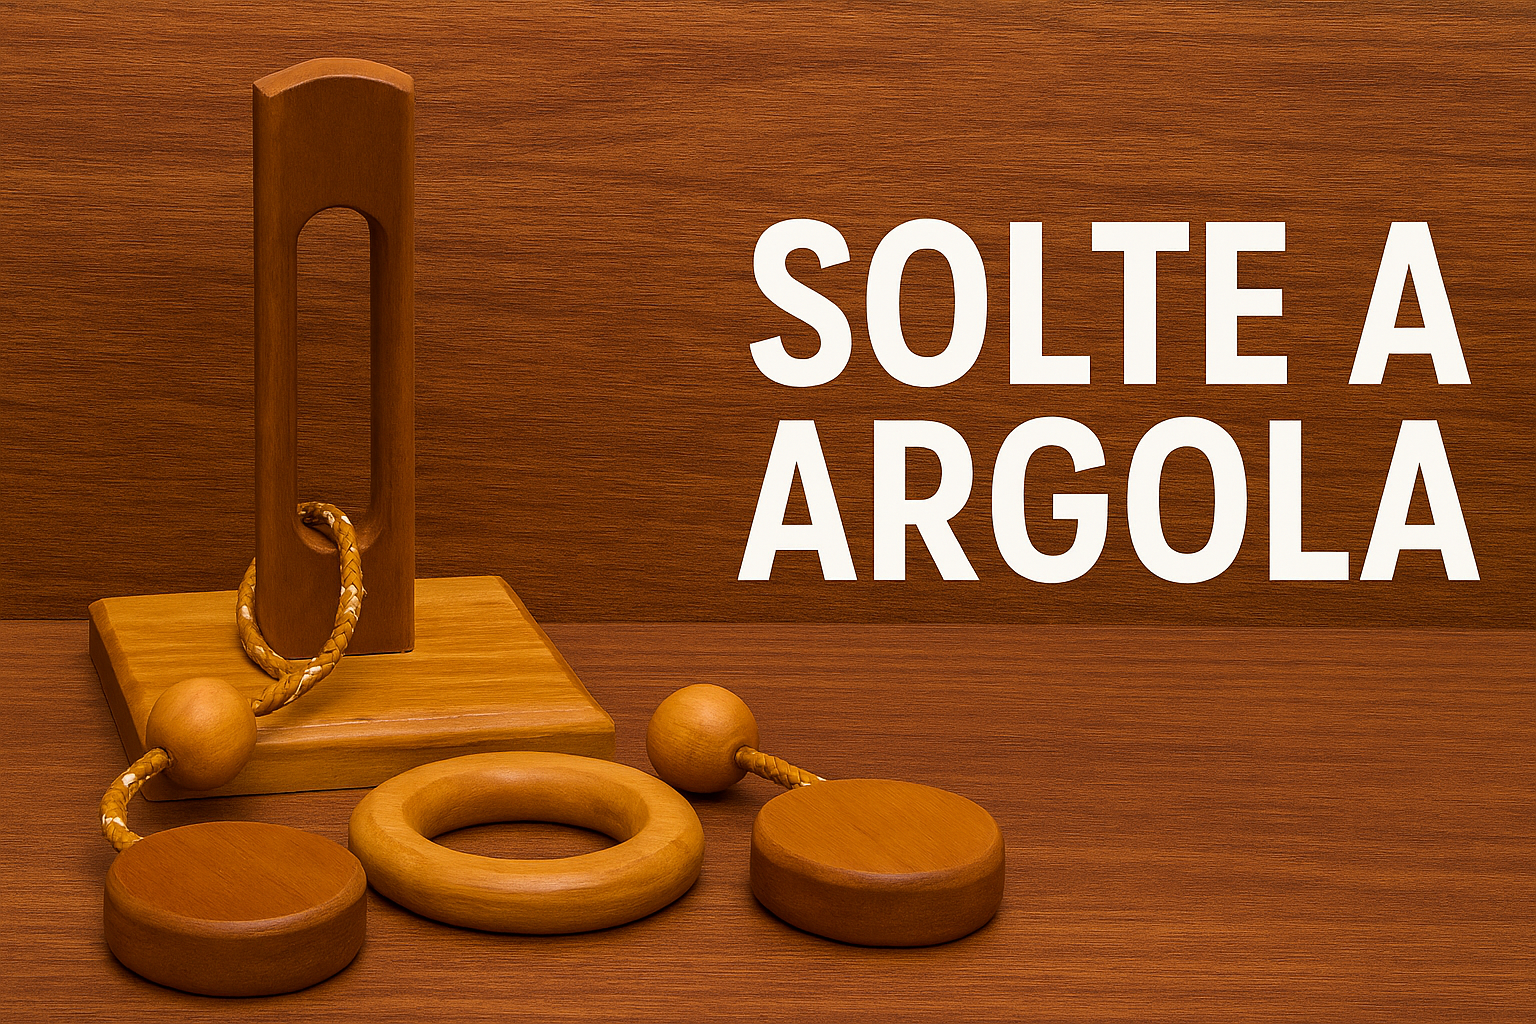
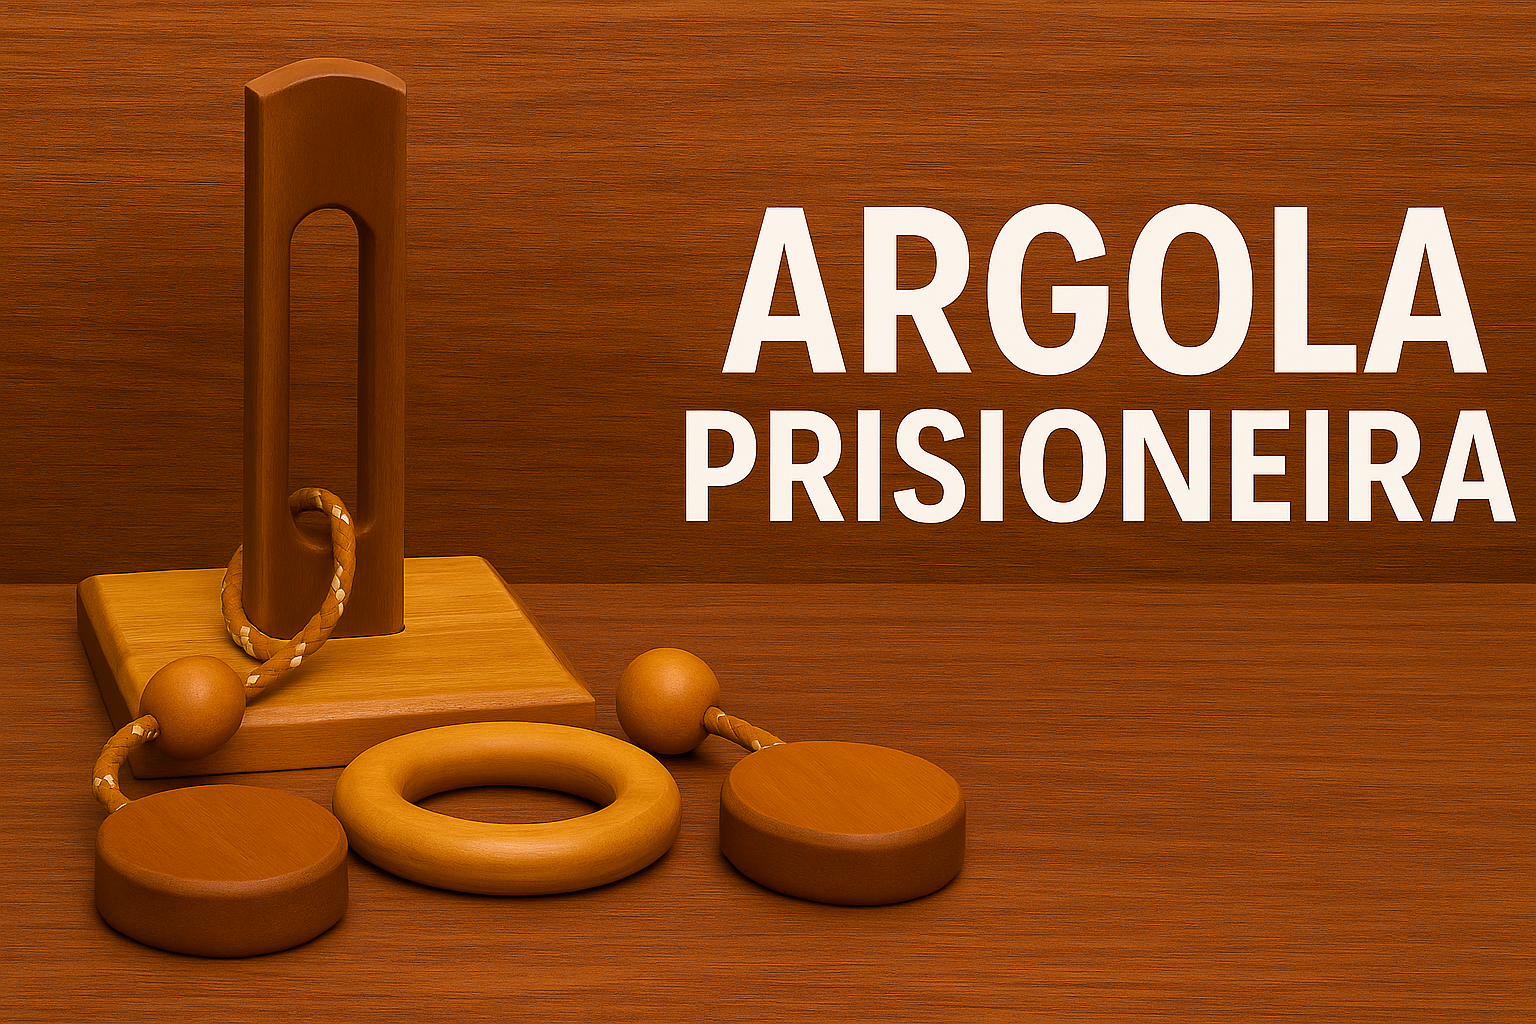
Add files via upload

diff --git a/pages/argola-prisioneira.html b/pages/argola-prisioneira.html
@@ -1,0 +1,277 @@
+<!DOCTYPE html>
+<html lang="pt-BR">
+<head>
+    <!-- META TAGS BÁSICAS PARA SEO E RESPONSIVIDADE -->
+    <meta charset="UTF-8">
+    <meta name="viewport" content="width=device-width, initial-scale=1.0">
+    <meta name="description" content="Conheça a Argola Prisioneira, um desafio de raciocínio lógico que testa sua capacidade de resolução de problemas.">
+    <title>Argola Prisioneira - Desafio de Raciocínio Lógico</title>
+    
+    <!-- BOOTSTRAP CSS -->
+    <link href="https://cdn.jsdelivr.net/npm/bootstrap@5.3.0/dist/css/bootstrap.min.css" rel="stylesheet">
+    
+    <!-- FONT AWESOME PARA ÍCONES -->
+    <link rel="stylesheet" href="https://cdnjs.cloudflare.com/ajax/libs/font-awesome/6.4.0/css/all.min.css">
+    
+    <!-- GOOGLE FONTS -->
+    <link href="https://fonts.googleapis.com/css2?family=Poppins:wght@300;400;600;700&display=swap" rel="stylesheet">
+    
+    <!-- CSS CUSTOMIZADO -->
+    <link rel="stylesheet" href="../css/style.css">
+    <link rel="stylesheet" href="../css/game-details.css">
+</head>
+<body>
+    <!-- NAVEGAÇÃO -->
+    <nav class="navbar navbar-expand-lg navbar-dark bg-dark fixed-top">
+        <div class="container">
+            <a class="navbar-brand" href="../index.html">
+                <i class="fas fa-puzzle-piece me-2"></i>
+                Jogos de Quebra-Cabeça
+            </a>
+            <button class="navbar-toggler" type="button" data-bs-toggle="collapse" data-bs-target="#navbarNav">
+                <span class="navbar-toggler-icon"></span>
+            </button>
+            <div class="collapse navbar-collapse" id="navbarNav">
+                <ul class="navbar-nav ms-auto">
+                    <li class="nav-item">
+                        <a class="nav-link" href="../index.html">
+                            <i class="fas fa-home me-1"></i>Início
+                        </a>
+                    </li>
+                </ul>
+            </div>
+        </div>
+    </nav>
+
+    <!-- CABEÇALHO DO JOGO -->
+    <header class="game-header">
+        <div class="container">
+            <div class="row align-items-center">
+                <div class="col-lg-6">
+                    <div class="game-info">
+                        <h1 class="game-title">
+                            <i class="fas fa-ring me-3"></i>
+                            Argola Prisioneira
+                        </h1>
+                        <p class="game-subtitle">Desafio de Raciocínio Lógico</p>
+                        <div class="game-meta">
+                            <span class="meta-item">
+                                <i class="fas fa-user me-2"></i>
+                                Individual
+                            </span>
+                            <span class="meta-item">
+                                <i class="fas fa-clock me-2"></i>
+                                5-30 min
+                            </span>
+                            <span class="meta-item">
+                                <i class="fas fa-brain me-2"></i>
+                                Raciocínio
+                            </span>
+                        </div>
+                    </div>
+                </div>
+                <div class="col-lg-6">
+                    <div class="game-image">
+                        <img src="../images/solte_a_argola.png" alt="Jogo Argola Prisioneira" class="img-fluid rounded shadow">
+                    </div>
+                </div>
+            </div>
+        </div>
+    </header>
+
+    <!-- CONTEÚDO PRINCIPAL -->
+    <main class="game-content">
+        <div class="container">
+            <!-- DESCRIÇÃO -->
+            <section class="content-section">
+                <h2 class="section-title">
+                    <i class="fas fa-info-circle me-2"></i>
+                    O que é a Argola Prisioneira?
+                </h2>
+                <div class="content-text">
+                    <p>
+                        A "Argola Prisioneira" é um clássico quebra-cabeça de madeira que desafia sua capacidade de 
+                        raciocínio lógico e resolução de problemas. O objetivo é simples: remover a argola que 
+                        está aparentemente presa por um cordão a uma estrutura de madeira.
+                    </p>
+                    <p>
+                        Este tipo de puzzle é conhecido por sua aparente simplicidade, mas que esconde uma solução 
+                        engenhosa. É um excelente exercício mental que estimula o pensamento lateral e a 
+                        perseverança, sendo usado tanto para entretenimento quanto para desenvolvimento cognitivo.
+                    </p>
+                </div>
+            </section>
+
+            <!-- REGRAS -->
+            <section class="content-section">
+                <h2 class="section-title">
+                    <i class="fas fa-book me-2"></i>
+                    Como Resolver
+                </h2>
+                <div class="rules-container">
+                    <div class="rule-item">
+                        <div class="rule-number">1</div>
+                        <div class="rule-content">
+                            <h4>Observe Atentamente</h4>
+                            <p>Examine cuidadosamente toda a estrutura. Observe como a argola está conectada 
+                            ao cordão e como o cordão está preso à base de madeira.</p>
+                        </div>
+                    </div>
+                    
+                    <div class="rule-item">
+                        <div class="rule-number">2</div>
+                        <div class="rule-content">
+                            <h4>Não Force</h4>
+                            <p>A solução nunca envolve forçar ou quebrar qualquer parte do puzzle. 
+                            Se você está forçando, provavelmente não é o caminho correto.</p>
+                        </div>
+                    </div>
+                    
+                    <div class="rule-item">
+                        <div class="rule-number">3</div>
+                        <div class="rule-content">
+                            <h4>Pense Diferente</h4>
+                            <p>A solução geralmente envolve uma abordagem não óbvia. Tente pensar 
+                            "fora da caixa" e considere movimentos que parecem impossíveis à primeira vista.</p>
+                        </div>
+                    </div>
+                    
+                    <div class="rule-item">
+                        <div class="rule-number">4</div>
+                        <div class="rule-content">
+                            <h4>Seja Paciente</h4>
+                            <p>Este tipo de puzzle pode levar tempo para ser resolvido. Não desista! 
+                            Às vezes, fazer uma pausa e voltar depois pode ajudar a ver a solução.</p>
+                        </div>
+                    </div>
+                </div>
+            </section>
+
+            <!-- HISTÓRIA -->
+            <section class="content-section">
+                <h2 class="section-title">
+                    <i class="fas fa-history me-2"></i>
+                    História dos Puzzles de Cordão
+                </h2>
+                <div class="content-text">
+                    <p>
+                        Os puzzles de cordão, como a "Argola Prisioneira", têm uma longa história que remonta a 
+                        séculos atrás. Eles eram populares em várias culturas como forma de entretenimento 
+                        e teste de inteligência.
+                    </p>
+                    <p>
+                        Na Europa medieval, estes tipos de quebra-cabeças eram conhecidos como "puzzles de 
+                        taverna" e eram usados para entretenimento em pousadas e tavernas. Viajantes e 
+                        comerciantes os carregavam como forma de passar o tempo durante longas jornadas.
+                    </p>
+                    <p>
+                        Hoje, estes puzzles são valorizados tanto por colecionadores quanto por educadores, 
+                        sendo usados para desenvolver habilidades de resolução de problemas e pensamento crítico 
+                        em pessoas de todas as idades.
+                    </p>
+                </div>
+            </section>
+
+            <!-- DICAS -->
+            <section class="content-section">
+                <h2 class="section-title">
+                    <i class="fas fa-lightbulb me-2"></i>
+                    Dicas para Resolver
+                </h2>
+                <div class="tips-grid">
+                    <div class="tip-card">
+                        <i class="fas fa-search tip-icon"></i>
+                        <h4>Examine Todos os Ângulos</h4>
+                        <p>Gire o puzzle e observe-o de diferentes perspectivas. 
+                        Às vezes a solução fica óbvia quando vista de outro ângulo.</p>
+                    </div>
+                    
+                    <div class="tip-card">
+                        <i class="fas fa-hand-paper tip-icon"></i>
+                        <h4>Teste Movimentos</h4>
+                        <p>Experimente diferentes movimentos com cuidado. 
+                        Mesmo que pareçam impossíveis, alguns podem ser a chave da solução.</p>
+                    </div>
+                    
+                    <div class="tip-card">
+                        <i class="fas fa-pause tip-icon"></i>
+                        <h4>Faça Pausas</h4>
+                        <p>Se estiver travado, faça uma pausa e volte depois. 
+                        Sua mente subconsciente pode trabalhar no problema enquanto descansa.</p>
+                    </div>
+                    
+                    <div class="tip-card">
+                        <i class="fas fa-undo tip-icon"></i>
+                        <h4>Pense no Reverso</h4>
+                        <p>Às vezes ajuda pensar no processo inverso: 
+                        como você colocaria a argola de volta se ela estivesse solta?</p>
+                    </div>
+                </div>
+            </section>
+
+            <!-- BENEFÍCIOS -->
+            <section class="content-section">
+                <h2 class="section-title">
+                    <i class="fas fa-trophy me-2"></i>
+                    Benefícios Educacionais
+                </h2>
+                <div class="rules-container">
+                    <div class="rule-item">
+                        <div class="rule-number">🧠</div>
+                        <div class="rule-content">
+                            <h4>Desenvolvimento Cognitivo</h4>
+                            <p>Estimula o raciocínio lógico, a percepção espacial e a capacidade de 
+                            resolução de problemas complexos.</p>
+                        </div>
+                    </div>
+                    
+                    <div class="rule-item">
+                        <div class="rule-number">💪</div>
+                        <div class="rule-content">
+                            <h4>Perseverança</h4>
+                            <p>Ensina a importância da persistência e da paciência na resolução 
+                            de desafios aparentemente impossíveis.</p>
+                        </div>
+                    </div>
+                    
+                    <div class="rule-item">
+                        <div class="rule-number">💡</div>
+                        <div class="rule-content">
+                            <h4>Pensamento Criativo</h4>
+                            <p>Desenvolve a capacidade de pensar "fora da caixa" e encontrar 
+                            soluções não convencionais para problemas.</p>
+                        </div>
+                    </div>
+                </div>
+            </section>
+        </div>
+    </main>
+
+    <!-- BOTÃO VOLTAR -->
+    <div class="back-button-container">
+        <a href="../index.html" class="btn btn-primary back-button">
+            <i class="fas fa-arrow-left me-2"></i>
+            Voltar aos Jogos
+        </a>
+    </div>
+
+    <!-- RODAPÉ -->
+    <footer class="footer-section mt-5">
+        <div class="container">
+            <div class="text-center">
+                <p class="mb-0">
+                    &copy; 2024 Projeto Jogos de Quebra-Cabeça. 
+                    <a href="../index.html" class="text-decoration-none">
+                        Voltar ao início
+                    </a>
+                </p>
+            </div>
+        </div>
+    </footer>
+
+    <!-- SCRIPTS -->
+    <script src="https://cdn.jsdelivr.net/npm/bootstrap@5.3.0/dist/js/bootstrap.bundle.min.js"></script>
+    <script src="../js/game-details.js"></script>
+</body>
+</html>
+

diff --git a/index.html b/index.html
@@ -98,17 +98,17 @@
                     </div>
                 </div>
 
-                <!-- CARD DO JOGO SOLTE A ARGOLA -->
+                <!-- CARD DO JOGO ARGOLA PRISIONEIRA -->
                 <div class="col-lg-4 col-md-6">
                     <div class="game-card" onclick="openGameDetails('solte-a-argola')">
                         <div class="card-image">
-                            <img src="images/solte_a_argola.png" alt="Jogo Solte a Argola" class="img-fluid">
+                            <img src="images/solte_a_argola.png" alt="Jogo Argola Prisioneira" class="img-fluid">
                             <div class="card-overlay">
                                 <i class="fas fa-play-circle"></i>
                             </div>
                         </div>
                         <div class="card-content">
-                            <h3 class="game-title">Solte a Argola</h3>
+                            <h3 class="game-title">Argola prisioneira</h3>
                             <p class="game-description">Desafio de raciocínio lógico</p>
                             <div class="game-tags">
                                 <span class="tag">Raciocínio</span>

diff --git a/js/script.js b/js/script.js
@@ -105,7 +105,7 @@ function openGameDetails(gameId) {
     const pageMap = {
         'quixo': 'quixo.html',
         'kendama': 'kendama.html',
-        'solte-a-argola': 'solte-a-argola.html',
+        'argola-prisioneira': 'argola-prisioneira.html',
         'tetris-3d': 'tetris-3d.html',
         'senhoritas-chinesas': 'senhoritas-chinesas.html',
         'travas-do-herois': 'travas-do-herois.html',
